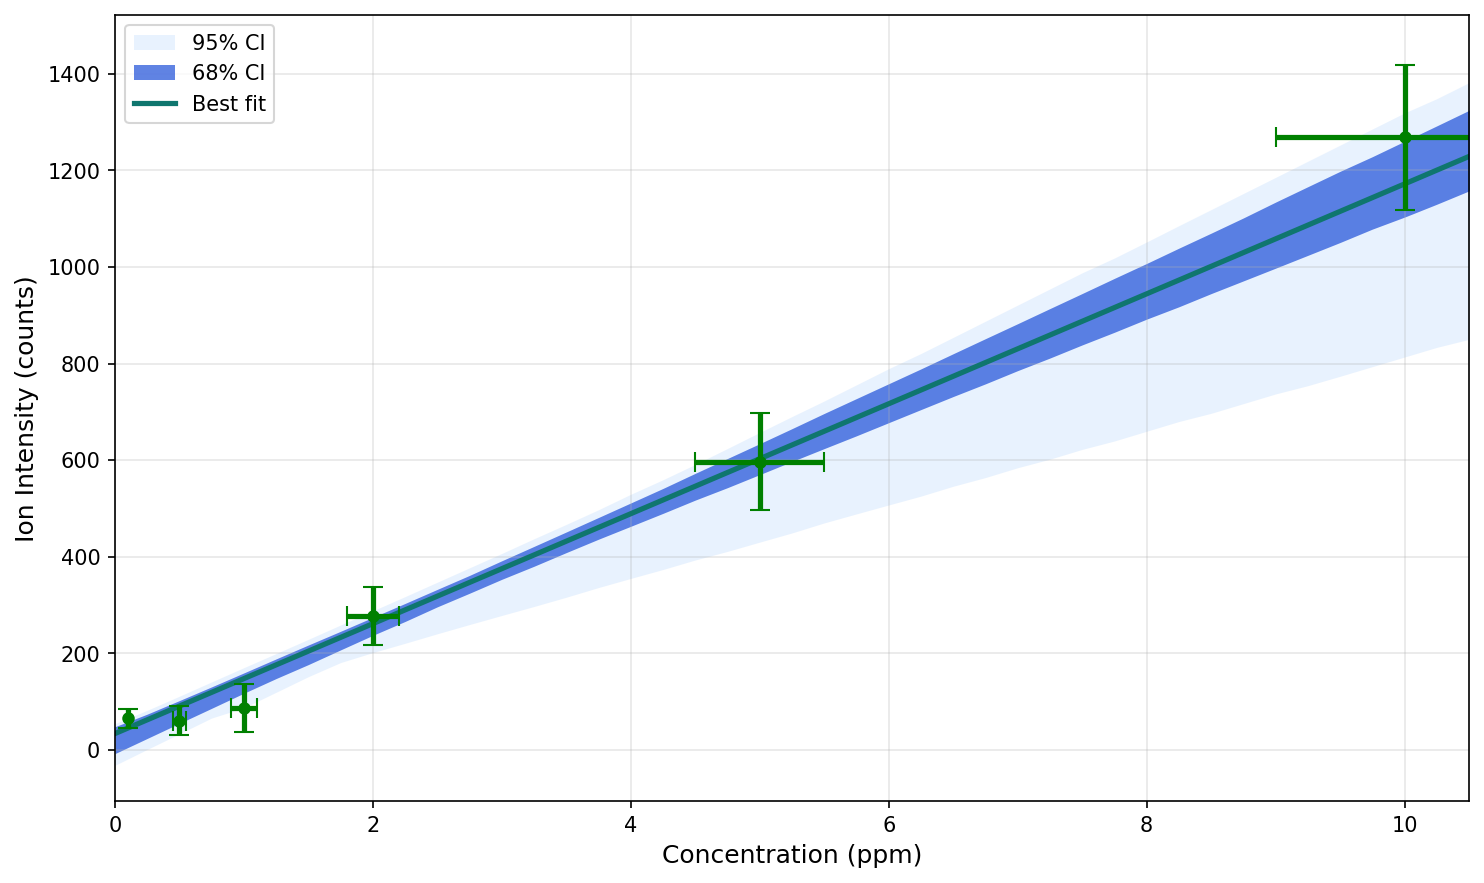
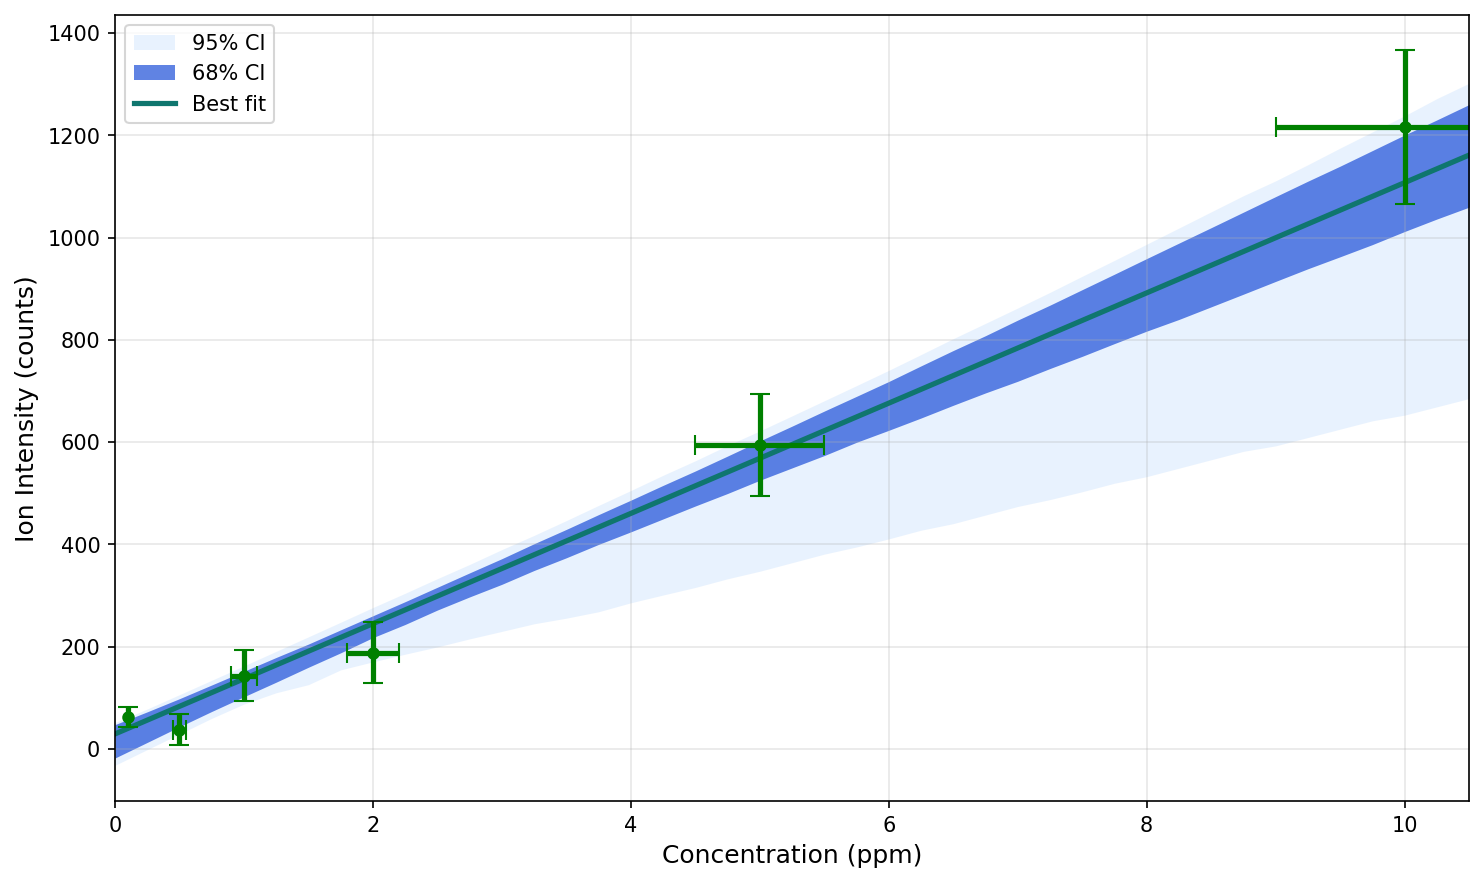
updated link to documentation and updated docs to show how initial guess at the slope and intercept using a least squares fit

diff --git a/examples/example.py b/examples/example.py
@@ -40,10 +40,14 @@ def main() -> None:
     x_uncertainty = np.array([0.01, 0.05, 0.1, 0.2, 0.5, 1.0])
     y_uncertainty = np.array([20, 30, 50, 60, 100, 150])
 
+    ls_slope, ls_intercept = np.polyfit(x_standards, y_measured, 1)
+    initial_guess = [ls_slope, ls_intercept]
+
     print(f"   Standards: {x_standards}")
     print(f"   Measurements: {y_measured}")
     print(f"   X uncertainties: {x_uncertainty}")
     print(f"   Y uncertainties: {y_uncertainty}")
+    print(f"   Least-squares initial guess: slope={ls_slope:.3f}, intercept={ls_intercept:.3f}")
 
     x_outlier = np.concatenate([x_standards, [8.5, 6.3]])
     y_outlier = np.concatenate([
@@ -66,7 +70,7 @@ def main() -> None:
         y_err=y_uncertainty,
         resample_draws=2000,
         InterceptFit=True,
-        InitialGuess=[100, 10],
+        InitialGuess=initial_guess,
         Confidence_Bound=0.95,
         LineMax=11,
         LineInterval=REGRESSION_LINE_INTERVAL,
@@ -75,6 +79,7 @@ def main() -> None:
     conf_68 = Eval_Conf(all_params, Confidence_Bound=0.68, LineMax=11, LineInt=REGRESSION_LINE_INTERVAL)
     conf_95 = Eval_Conf(all_params, Confidence_Bound=0.95, LineMax=11, LineInt=REGRESSION_LINE_INTERVAL)
 
+    outlier_initial_guess = np.polyfit(x_outlier, y_outlier, 1)
     outlier_confidence_data, outlier_best_fit, outlier_points, outlier_params, _ = ODR_Bootstrap(
         x=x_outlier,
         y=y_outlier,
@@ -82,7 +87,7 @@ def main() -> None:
         y_err=y_outlier_err,
         resample_draws=2000,
         InterceptFit=True,
-        InitialGuess=[100, 10],
+        InitialGuess=list(outlier_initial_guess),
         Confidence_Bound=0.95,
         LineMax=11,
         LineInterval=REGRESSION_LINE_INTERVAL,

diff --git a/README.md b/README.md
@@ -49,11 +49,12 @@ pip install -e .
 
 ## Documentation
 
-Full documentation is available at [Read the Docs](https://odr-bootstrap.readthedocs.io).
+Full documentation is available at [Read the Docs](https://odr-bootstrap-package.readthedocs.io/en/latest/index.html).
+
 
 For quick reference, see:
-- [API Reference](https://odr-bootstrap.readthedocs.io/en/latest/api.html)
-- [Tutorial & Examples](https://odr-bootstrap.readthedocs.io/en/latest/tutorial.html)
+- [API Reference](https://odr-bootstrap-package.readthedocs.io/en/latest/api.html)
+- [Tutorial & Examples](https://odr-bootstrap-package.readthedocs.io/en/latest/tutorial.html)
 - [Examples Directory](./examples)
 
 ## Quick Start
@@ -69,6 +70,10 @@ y_intensity = np.array([45, 200, 350, 700, 1450])      # Ion counts
 x_uncertainty = np.array([0.01, 0.05, 0.1, 0.2, 0.5]) # Measurement errors in x
 y_uncertainty = np.array([5, 20, 35, 60, 120])         # Measurement errors in y
 
+# Estimate a reasonable starting point from a simple least-squares fit
+ls_slope, ls_intercept = np.polyfit(x_standards, y_intensity, 1)
+initial_guess = [ls_slope, ls_intercept]
+
 # Run ODR bootstrap with 2000 resamples
 confidence_data, best_fit_params, points, all_params, subsamples = ODR_Bootstrap(
     x=x_standards,
@@ -77,7 +82,7 @@ confidence_data, best_fit_params, points, all_params, subsamples = ODR_Bootstrap
     y_err=y_uncertainty,
     resample_draws=2000,
     InterceptFit=True,
-    InitialGuess=[250, 10],
+    InitialGuess=initial_guess,
     Confidence_Bound=0.95,
     LineMax=6,
 )

diff --git a/docs/source/tutorial.rst b/docs/source/tutorial.rst
@@ -26,6 +26,10 @@ The simplest use case: fit a linear calibration curve with confidence intervals.
    x_uncertainty = np.array([0.01, 0.05, 0.1, 0.2, 0.5, 1.0])
    y_uncertainty = np.array([20, 30, 50, 60, 100, 150])
 
+   # Estimate a reasonable starting point from a simple least-squares fit
+   ls_slope, ls_intercept = np.polyfit(x_standards, y_measured, 1)
+   initial_guess = [ls_slope, ls_intercept]
+
    # Run bootstrap with 2000 resamples
    confidence_data, best_fit_params, points, all_params, subsamples = ODR_Bootstrap(
        x=x_standards,
@@ -34,7 +38,7 @@ The simplest use case: fit a linear calibration curve with confidence intervals.
        y_err=y_uncertainty,
        resample_draws=2000,
        InterceptFit=True,
-       InitialGuess=[100, 10],
+       InitialGuess=initial_guess,
        Confidence_Bound=0.95,
        LineMax=11,
        LineInterval=0.5,
@@ -179,6 +183,9 @@ Compute multiple confidence intervals on the same fit:
    from odr_bootstrap import Bootstrap_fit, Eval_Conf
 
    # Generate bootstrap samples
+   ls_slope, ls_intercept = np.polyfit(x_standards, y_measured, 1)
+   initial_guess = [ls_slope, ls_intercept]
+
    params, subsamples = Bootstrap_fit(
        x=x_standards,
        y=y_measured,
@@ -186,7 +193,7 @@ Compute multiple confidence intervals on the same fit:
        y_err=y_uncertainty,
        resample_draws=2000,
        InterceptFit=True,
-       InitialGuess=[100, 10],
+       InitialGuess=initial_guess,
    )
 
    # Evaluate at different confidence levels

diff --git a/docs/source/index.rst b/docs/source/index.rst
@@ -4,13 +4,10 @@ ODR Bootstrap Documentation
 
 **Orthogonal Distance Regression with Bootstrap Resampling for SIMS Calibration**
 
-|tests| |coverage| |pypi| |license|
+|tests| |pypi| |license|
 
 .. |tests| image:: https://github.com/whtowbin/odr_bootstrap_package/actions/workflows/tests.yml/badge.svg
    :target: https://github.com/whtowbin/odr_bootstrap_package/actions/workflows/tests.yml
-
-.. |coverage| image:: https://codecov.io/gh/whtowbin/odr_bootstrap_package/branch/main/graph/badge.svg
-   :target: https://codecov.io/gh/whtowbin/odr_bootstrap_package
 
 .. |pypi| image:: https://img.shields.io/pypi/v/odr-bootstrap.svg
    :target: https://pypi.org/project/odr-bootstrap/
@@ -66,6 +63,7 @@ Development
 Project Links
 =============
 
+- **Documentation Home**: `Read the Docs <https://odr-bootstrap-package.readthedocs.io/en/latest/index.html>`_
 - **Source Code**: `GitHub <https://github.com/whtowbin/odr_bootstrap_package>`_
 - **Issue Tracker**: `GitHub Issues <https://github.com/whtowbin/odr_bootstrap_package/issues>`_
 - **PyPI**: `odr-bootstrap <https://pypi.org/project/odr-bootstrap/>`_

diff --git a/docs/source/examples.md b/docs/source/examples.md
@@ -118,6 +118,9 @@ To use ODR Bootstrap with your own data:
 2. Run the fit.
 
    ```python
+   ls_slope, ls_intercept = np.polyfit(x_standards, y_measured, 1)
+   initial_guess = [ls_slope, ls_intercept]
+
    confidence_data, params, points, all_params, _ = ODR_Bootstrap(
        x=x_standards,
        y=y_measured,
@@ -125,6 +128,7 @@ To use ODR Bootstrap with your own data:
        y_err=y_uncertainty,
        resample_draws=5000,
        InterceptFit=True,
+       InitialGuess=initial_guess,
        Confidence_Bound=0.95,
    )
    ```
@@ -151,7 +155,7 @@ To use ODR Bootstrap with your own data:
 
 - Check for outliers in your data.
 - Verify uncertainty estimates are realistic.
-- Try different InitialGuess values.
+- Start from a least-squares estimate via `np.polyfit(x, y, 1)` and refine from there.
 - Increase resample_draws for better bootstrap estimates.
 
 ### Problem: Slow execution
